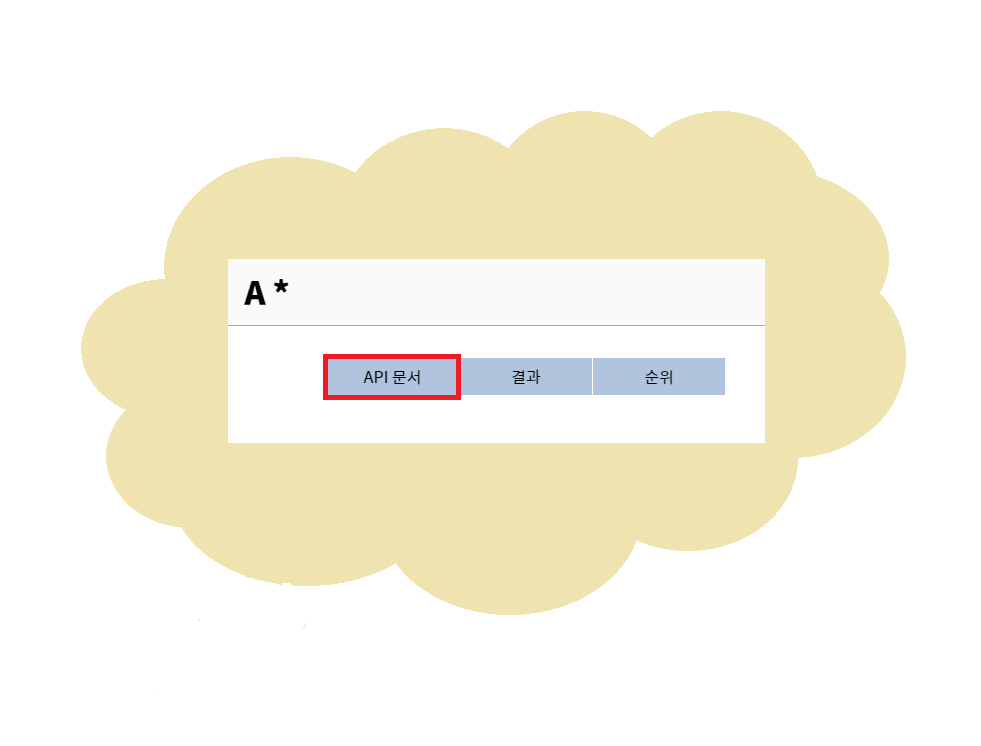
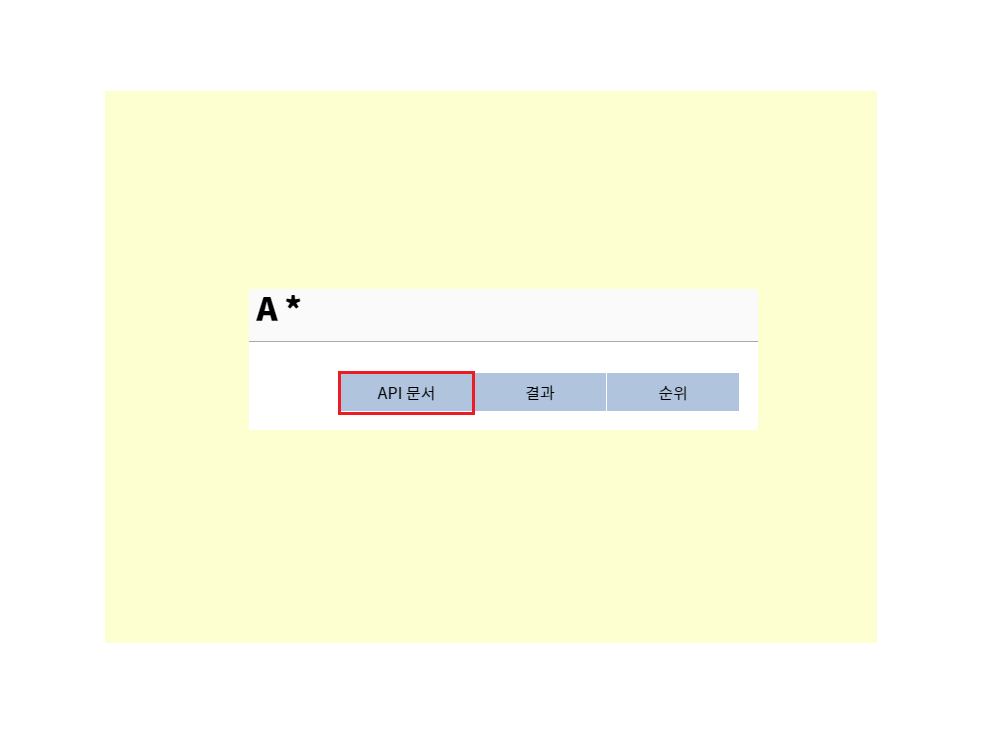
전체적인 디자인 수정

diff --git a/src/views/GuidePage.jsx b/src/views/GuidePage.jsx
@@ -5,7 +5,7 @@ import AppLayout from '../components/common/AppLayout';
 import { css } from '@emotion/react';
 import '../css/guide.css';
 
-import hello from '../images/guide/hello.gif';
+import introduce from '../images/guide/introduce.png';
 import finish from '../images/guide/finish.gif';
 import result from '../images/guide/result.gif';
 import time from '../images/guide/time.gif';
@@ -13,6 +13,7 @@ import tab from '../images/guide/tab.png';
 import apiTab from '../images/guide/api_tab.png';
 import rankTab from '../images/guide/rank_tab.png';
 import restApi from '../images/guide/restapi.png';
+import styled from '@emotion/styled';
 
 const nextLink = css`
   display: block;
@@ -31,6 +32,14 @@ const nextLink = css`
   }
 `;
 
+const Message = styled.div`
+  background-color: rgba(255, 255, 255, 0.8);
+  box-shadow: rgba(0, 0, 0, 0.3) 0 0 3px;
+  margin: 30vh 0;
+  padding: 0.5rem 1rem;
+  border-radius: 10px;
+`;
+
 function GuidePage() {
   useEffect(() => {
     window.scrollTo(0, 0);
@@ -46,7 +55,6 @@ function GuidePage() {
 
       const io = new IntersectionObserver((entries, observer) => {
         ioIndex = entries[0].target.dataset.index * 1;
-        console.log(ioIndex);
       });
 
       for (let i = 0; i < stepElems.length; i++) {
@@ -98,15 +106,17 @@ function GuidePage() {
     <AppLayout>
       <header className="header">
         <div className="global-width">
-          <p style={{marginTop: '10vh'}}>
-            테스트 대회에 참여해주셔서 감사합니다.<br/>
-            아래로 스크롤하여 대회 안내 사항을 확인해주세요!
-          </p>
+          <Message>
+            <p>
+              테스트 대회에 참여해주셔서 감사합니다.<br/>
+              아래로 스크롤하여 대회 안내 사항을 확인해주세요!
+            </p>
+          </Message>
         </div>
       </header>
       <section className="scroll-content">
         <div className="scroll-graphic">
-          <div className="graphic-item"><img className="scene-img" src={hello} alt=""/></div>
+          <div className="graphic-item"><img className="scene-img" src={introduce} alt=""/></div>
           <div className="graphic-item"><img className="scene-img" src={time} alt=""/></div>
           <div className="graphic-item"><img className="scene-img" src={restApi} alt=""/></div>
           <div className="graphic-item"><img className="scene-img" src={tab} alt=""/></div>
@@ -161,8 +171,6 @@ function GuidePage() {
           </div>
         </div>
       </section>
-      {/*<section className="normal-content global-width">*/}
-      {/*</section>*/}
     </AppLayout>
   );
 }

diff --git a/src/views/problem/ApiPage.jsx b/src/views/problem/ApiPage.jsx
@@ -22,6 +22,7 @@ const PuzzleBtn = styled.button`
   background-color: lightsteelblue;
   color: white;
   font-weight: bold;
+  cursor: pointer;
   
   &:hover {
     background-color: cornflowerblue;
@@ -47,14 +48,29 @@ const ModalContent = styled.div`
   }
 `;
 
-const CommandTable = styled.table`
-  width: 100%;
-  margin-top: 0.5rem;
-`;
-
 const UnorderedList = styled.ul`
   list-style: disc;
   margin-left: 2rem;
+`;
+
+const ArrowBtn = styled.button`
+  position: fixed;
+  width: 50px;
+  height: 50px;
+  right: 100px;
+  bottom: 30px;
+  background-color: orange;
+  border: 0;
+  border-radius: 50%;
+  color: white;
+  font-size: 24px;
+  cursor: pointer;
+  
+  transition: all 300ms ease-in;
+  
+  :hover {
+    transform: scale(1.1);
+  }
 `;
 
 function ApiPage() {
@@ -67,6 +83,10 @@ function ApiPage() {
 
   const toggleModal = () => {
     setShowModal((prev) => !prev);
+  };
+
+  const onClickScrollTop = () => {
+    window.scrollTo(0, 0);
   };
 
   return (
@@ -92,26 +112,12 @@ function ApiPage() {
 
         <SubTitle title="이동"/>
         <p>타일을 이동하는 방법은 총 4가지가 있습니다.</p>
-        <CommandTable>
-          <tbody>
-          <tr>
-            <td>"U"</td>
-            <td>빈칸을 위로 움직인다.</td>
-          </tr>
-          <tr>
-            <td>"D"</td>
-            <td>빈칸을 아래로 움직인다.</td>
-          </tr>
-          <tr>
-            <td>"L"</td>
-            <td>빈칸을 왼쪽으로 움직인다.</td>
-          </tr>
-          <tr>
-            <td>"R"</td>
-            <td>빈칸을 오른쪽으로 움직인다.</td>
-          </tr>
-          </tbody>
-        </CommandTable>
+        <UnorderedList>
+          <li><Highlighting content="U"></Highlighting> : 위쪽</li>
+          <li><Highlighting content="R"></Highlighting> : 오른쪽</li>
+          <li><Highlighting content="D"></Highlighting> : 아래쪽</li>
+          <li><Highlighting content="L"></Highlighting> : 왼쪽</li>
+        </UnorderedList>
         <p>
           각 방향으로 이동할 수 있는 타일이 있다면, 해당 타일을 이동하고 <Emphasize content="이동 횟수"/> 가 1 증가합니다.<br/>
           격자의 상태는 타일이 이동한 상태로 바뀝니다.<br/>
@@ -292,6 +298,10 @@ function ApiPage() {
           &nbsp;&nbsp;&nbsp;&nbsp;"score": 1283<br/>
           {'}'}
         </NoteContent>
+
+        <ArrowBtn onClick={onClickScrollTop}>
+          <i className="fas fa-arrow-up"></i>
+        </ArrowBtn>
       </MainContentLayout>
     </>
   );

diff --git a/src/components/problem/PuzzlePractice.jsx b/src/components/problem/PuzzlePractice.jsx
@@ -64,23 +64,7 @@ function PuzzlePractice() {
 
     const clonePuzzle = cloneDeep(puzzle);
 
-    if (keyCode === 37) {
-      [clonePuzzle[row][col], clonePuzzle[row][col - 1]] = [
-        clonePuzzle[row][col - 1],
-        clonePuzzle[row][col],
-      ];
-
-      setPuzzle(clonePuzzle);
-      setInitialIndex(prev => ({...prev, col: prev.col - 1}));
-    } else if (keyCode === 38) {
-      [clonePuzzle[row][col], clonePuzzle[row - 1][col]] = [
-        clonePuzzle[row - 1][col],
-        clonePuzzle[row][col],
-      ];
-
-      setPuzzle(clonePuzzle);
-      setInitialIndex(prev => ({...prev, row: prev.row - 1}));
-    } else if (keyCode === 39) {
+    if (keyCode === 37) { // 좌
       [clonePuzzle[row][col], clonePuzzle[row][col + 1]] = [
         clonePuzzle[row][col + 1],
         clonePuzzle[row][col],
@@ -88,7 +72,7 @@ function PuzzlePractice() {
 
       setPuzzle(clonePuzzle);
       setInitialIndex(prev => ({...prev, col: prev.col + 1}));
-    } else if (keyCode === 40) {
+    } else if (keyCode === 38) { // 상
       [clonePuzzle[row][col], clonePuzzle[row + 1][col]] = [
         clonePuzzle[row + 1][col],
         clonePuzzle[row][col],
@@ -96,6 +80,22 @@ function PuzzlePractice() {
 
       setPuzzle(clonePuzzle);
       setInitialIndex(prev => ({...prev, row: prev.row + 1}));
+    } else if (keyCode === 39) { // 우
+      [clonePuzzle[row][col], clonePuzzle[row][col - 1]] = [
+        clonePuzzle[row][col - 1],
+        clonePuzzle[row][col],
+      ];
+
+      setPuzzle(clonePuzzle);
+      setInitialIndex(prev => ({...prev, col: prev.col - 1}));
+    } else if (keyCode === 40) { // 하
+      [clonePuzzle[row][col], clonePuzzle[row - 1][col]] = [
+        clonePuzzle[row - 1][col],
+        clonePuzzle[row][col],
+      ];
+
+      setPuzzle(clonePuzzle);
+      setInitialIndex(prev => ({...prev, row: prev.row - 1}));
     }
   }, [puzzle, initialIndex]);
 
@@ -105,14 +105,14 @@ function PuzzlePractice() {
   };
 
   const isNotBoundary = (keyCode, row, col) => {
-    if (keyCode === 37) {
-      return col - 1 < 0;
-    } else if (keyCode === 38) {
-      return row - 1 < 0;
-    } else if (keyCode === 39) {
+    if (keyCode === 37) { // 좌
       return col + 1 >= 3;
-    } else if (keyCode === 40) {
+    } else if (keyCode === 38) { // 상
       return row + 1 >= 3;
+    } else if (keyCode === 39) { // 우
+      return col - 1 < 0;
+    } else if (keyCode === 40) { // 하
+      return row - 1 < 0;
     }
   };
 

diff --git a/src/views/problem/ProblemPage.jsx b/src/views/problem/ProblemPage.jsx
@@ -1,10 +1,11 @@
-import React from 'react';
+import React, { useEffect, useRef } from 'react';
 import AppLayout from '../../components/common/AppLayout';
 import { Link, Route, Switch, useRouteMatch } from 'react-router-dom';
 import ApiPage from './ApiPage';
 import ResultPage from './ResultPage';
 import RankPage from './RankPage';
 import styled from '@emotion/styled';
+import '../../css/problem.css';
 
 const Nav = styled.nav`
   width: 400px;
@@ -42,11 +43,31 @@ const Li = styled.li`
 
 function ProblemPage() {
   const { path, url } = useRouteMatch();
+  const list = useRef(null);
+
+  useEffect(() => {
+  }, []);
+
+
+  const onClickSubHeader = (e) => {
+    const target = e.target;
+    if (!list.current || target.nodeName !== 'A') {
+      return;
+    }
+
+    Array.from(list.current.children).forEach(li => {
+      li.style.backgroundColor = 'lightsteelblue';
+      li.style.fontWeight = 'normal';
+    });
+
+    target.parentElement.style.backgroundColor = 'cornflowerblue';
+    target.parentElement.style.fontWeight = 'bold';
+  };
 
   return (
     <AppLayout>
       <Nav>
-        <Ul>
+        <Ul ref={list} onClick={onClickSubHeader}>
           <Li><Link to={`${url}`}>API 문서</Link></Li>
           <Li><Link to={`${url}/result`}>결과</Link></Li>
           <Li><Link to={`${url}/rank`}>순위</Link></Li>

diff --git a/src/components/common/AppHeader.jsx b/src/components/common/AppHeader.jsx
@@ -3,11 +3,17 @@ import styled from '@emotion/styled';
 import { Link } from 'react-router-dom';
 
 const Nav = styled.nav`
+  z-index: 1;
+  position: fixed;
+  width: 100%;
+  top: 0;
   display: flex;
   align-items: center;
   justify-content: space-around;
   border-bottom: 1px solid darkgray;
   background-color: #fafafa;
+  
+  transition: all 300ms ease-in;
   
   & div {
     padding: 0.3rem 0;
@@ -20,6 +26,7 @@ const Nav = styled.nav`
 
     & li {
       padding: 0 1rem;
+      border: 2px solid transparent;
       font-weight: bold;
     }
   }
@@ -28,12 +35,14 @@ const Nav = styled.nav`
 
 const Li = styled.li`
   transition-duration: 0.5s;
+
   :hover {
-    border-bottom: 1px solid rosybrown;
+    background-color: #e7e4e4;
   }
 `;
 
 function AppHeader() {
+
   return (
     <Nav>
       <div>

diff --git a/src/components/problem/ApiSubTitle.jsx b/src/components/problem/ApiSubTitle.jsx
@@ -7,7 +7,7 @@ const style = css`
   margin-top: 4rem;
   margin-bottom: 1rem;
   padding: 0.3rem 0.5rem;
-  background-color: rgba(135, 131, 120, 0.15);
+  background-color: rgba(135 131, 120, 0.15);
   color:#eb5757;
   font-size: 1.3rem;
   font-weight: bold;
@@ -15,7 +15,7 @@ const style = css`
 
 function ApiSubTitle({title}) {
   return (
-    <h3 css={style}>{title}</h3>
+    <h3 css={style}>[{title}]</h3>
   );
 }
 

diff --git a/src/components/common/MainContentLayout.jsx b/src/components/common/MainContentLayout.jsx
@@ -2,8 +2,8 @@ import React from 'react';
 import styled from '@emotion/styled';
 
 const MainTitle = styled.h1`
-  font-size: 3em;
-  font-weight: bold;
+  font-size: 2.5rem;
+  font-weight: bolder;
 `;
 
 const ContentContainer = styled.div`

diff --git a/src/components/common/Highlighting.jsx b/src/components/common/Highlighting.jsx
@@ -2,7 +2,7 @@ import React from 'react';
 import styled from '@emotion/styled';
 
 const Content = styled.span`
-  padding: 0.2rem 0.5rem;
+  padding: 0.1rem 0.5rem;
   background-color: rgba(135, 131, 120, 0.15);
   color: #eb5757;
 `;

diff --git a/src/components/common/AppLayout.jsx b/src/components/common/AppLayout.jsx
@@ -3,6 +3,7 @@ import AppHeader from './AppHeader';
 import styled from '@emotion/styled';
 
 const MainContainer = styled.div`
+  padding-top: 67px;
   margin: 2rem auto;
   width: 900px;
 `;

diff --git a/src/css/problem.css b/src/css/problem.css
@@ -1,0 +1,5 @@
+.selected {
+  width: 50%;
+  background-color: cornflowerblue;
+  font-weight: bold;
+}
